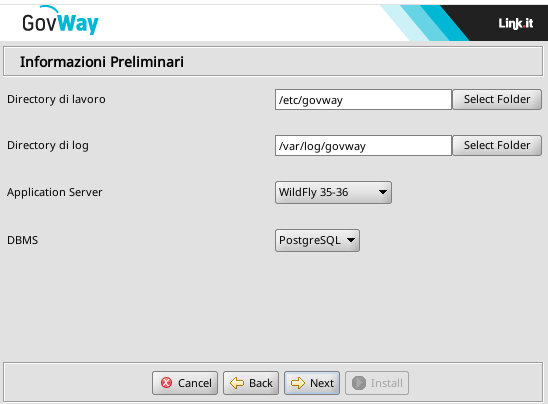
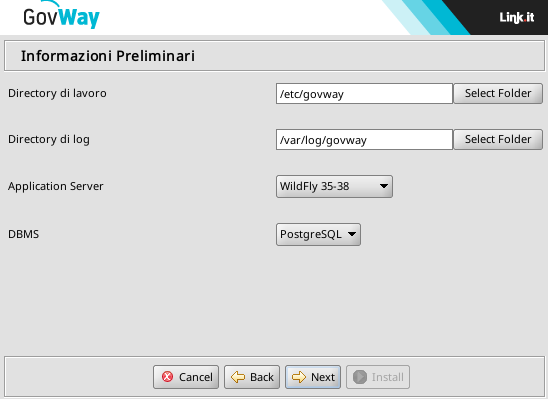
Predisposto rilascio 3.4.1

diff --git a/resources/doc/src/manuali/installazione/preliminare/index.rst b/resources/doc/src/manuali/installazione/preliminare/index.rst
@@ -21,7 +21,7 @@ mancanti.
 
    - -Dfile.encoding=UTF-8
 
-#. *Application Server WildFly* (http://wildfly.org); viene supportata la versione 27-28 (compatibile con JBoss EAP 8.0) e le versioni dalla 35 alla 36. In alternativa è possibile effettuare
+#. *Application Server WildFly* (http://wildfly.org); viene supportata la versione 27-28 (compatibile con JBoss EAP 8.0) e le versioni dalla 35 alla 38 (compatibile con JBoss EAP 8.1). In alternativa è possibile effettuare
    l'installazione su Apache Tomcat (http://tomcat.apache.org) versione 11.
 
    .. note::
@@ -49,4 +49,4 @@ sulla seguente piattaforma di riferimento:
 
 -  *PostgreSQL 13 (version: 13.21)*, *PostgreSQL 16 (version: 16.1)* e *Oracle 11g ExpressEdition (version: 11.2.0.2.0)*
 
--  *WildFly 28 (version: 28.0.1.Final)*, *WildFly 36 (version: 36.0.1.Final)* e *Tomcat 11 (version: 11.0.8)*
+-  *WildFly 38 (version: 38.0.0.Final)* e *Tomcat 11 (version: 11.0.8)*

diff --git a/resources/doc/src/manuali/installazione/installer/nuovaInstallazione.rst b/resources/doc/src/manuali/installazione/installer/nuovaInstallazione.rst
@@ -33,7 +33,7 @@ come si sviluppa il processo di installazione:
    -  *DBMS*: il tipo di database scelto tra quelli supportati:
       PostgreSQL, MySQL, Oracle, HyperSQL, SQLServer.
 
-   -  *Application Server*: il tipo di application server tra quelli supportati: WildFly (deve essere selezionata la voce che comprende la versione utilizzata tra: 27-28, 35-36 o 25-26) e Apache Tomcat (versione 11).
+   -  *Application Server*: il tipo di application server tra quelli supportati: WildFly (deve essere selezionata la voce che comprende la versione utilizzata tra: 27-28 o 35-38) e Apache Tomcat (versione 11).
 
 #. Al passo successivo si dovranno inserire tutti i dati per l'accesso
    al database ed in particolare:
